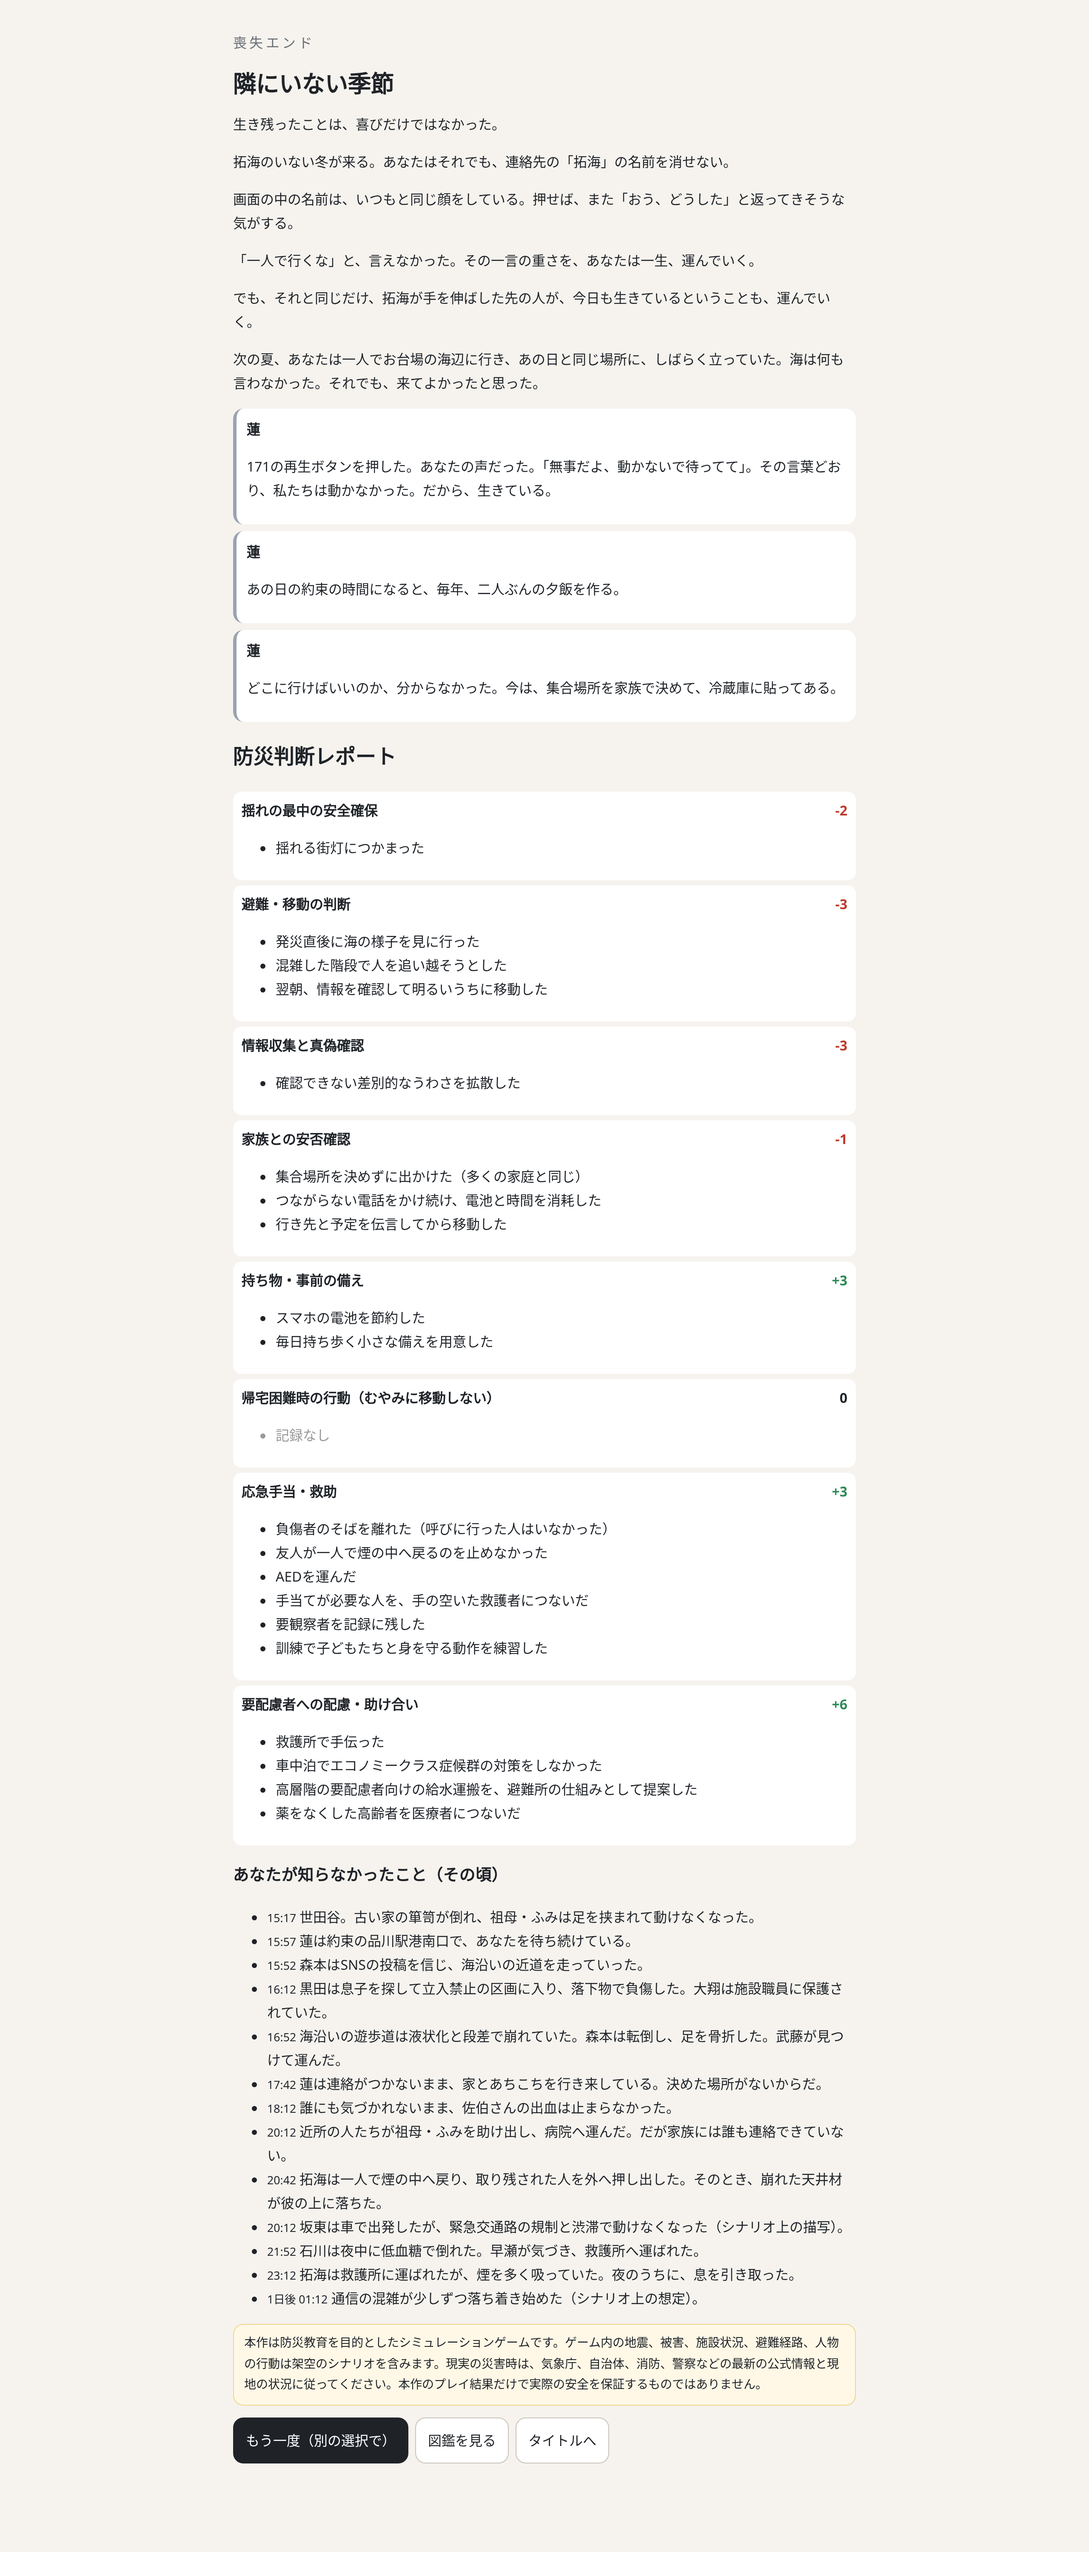
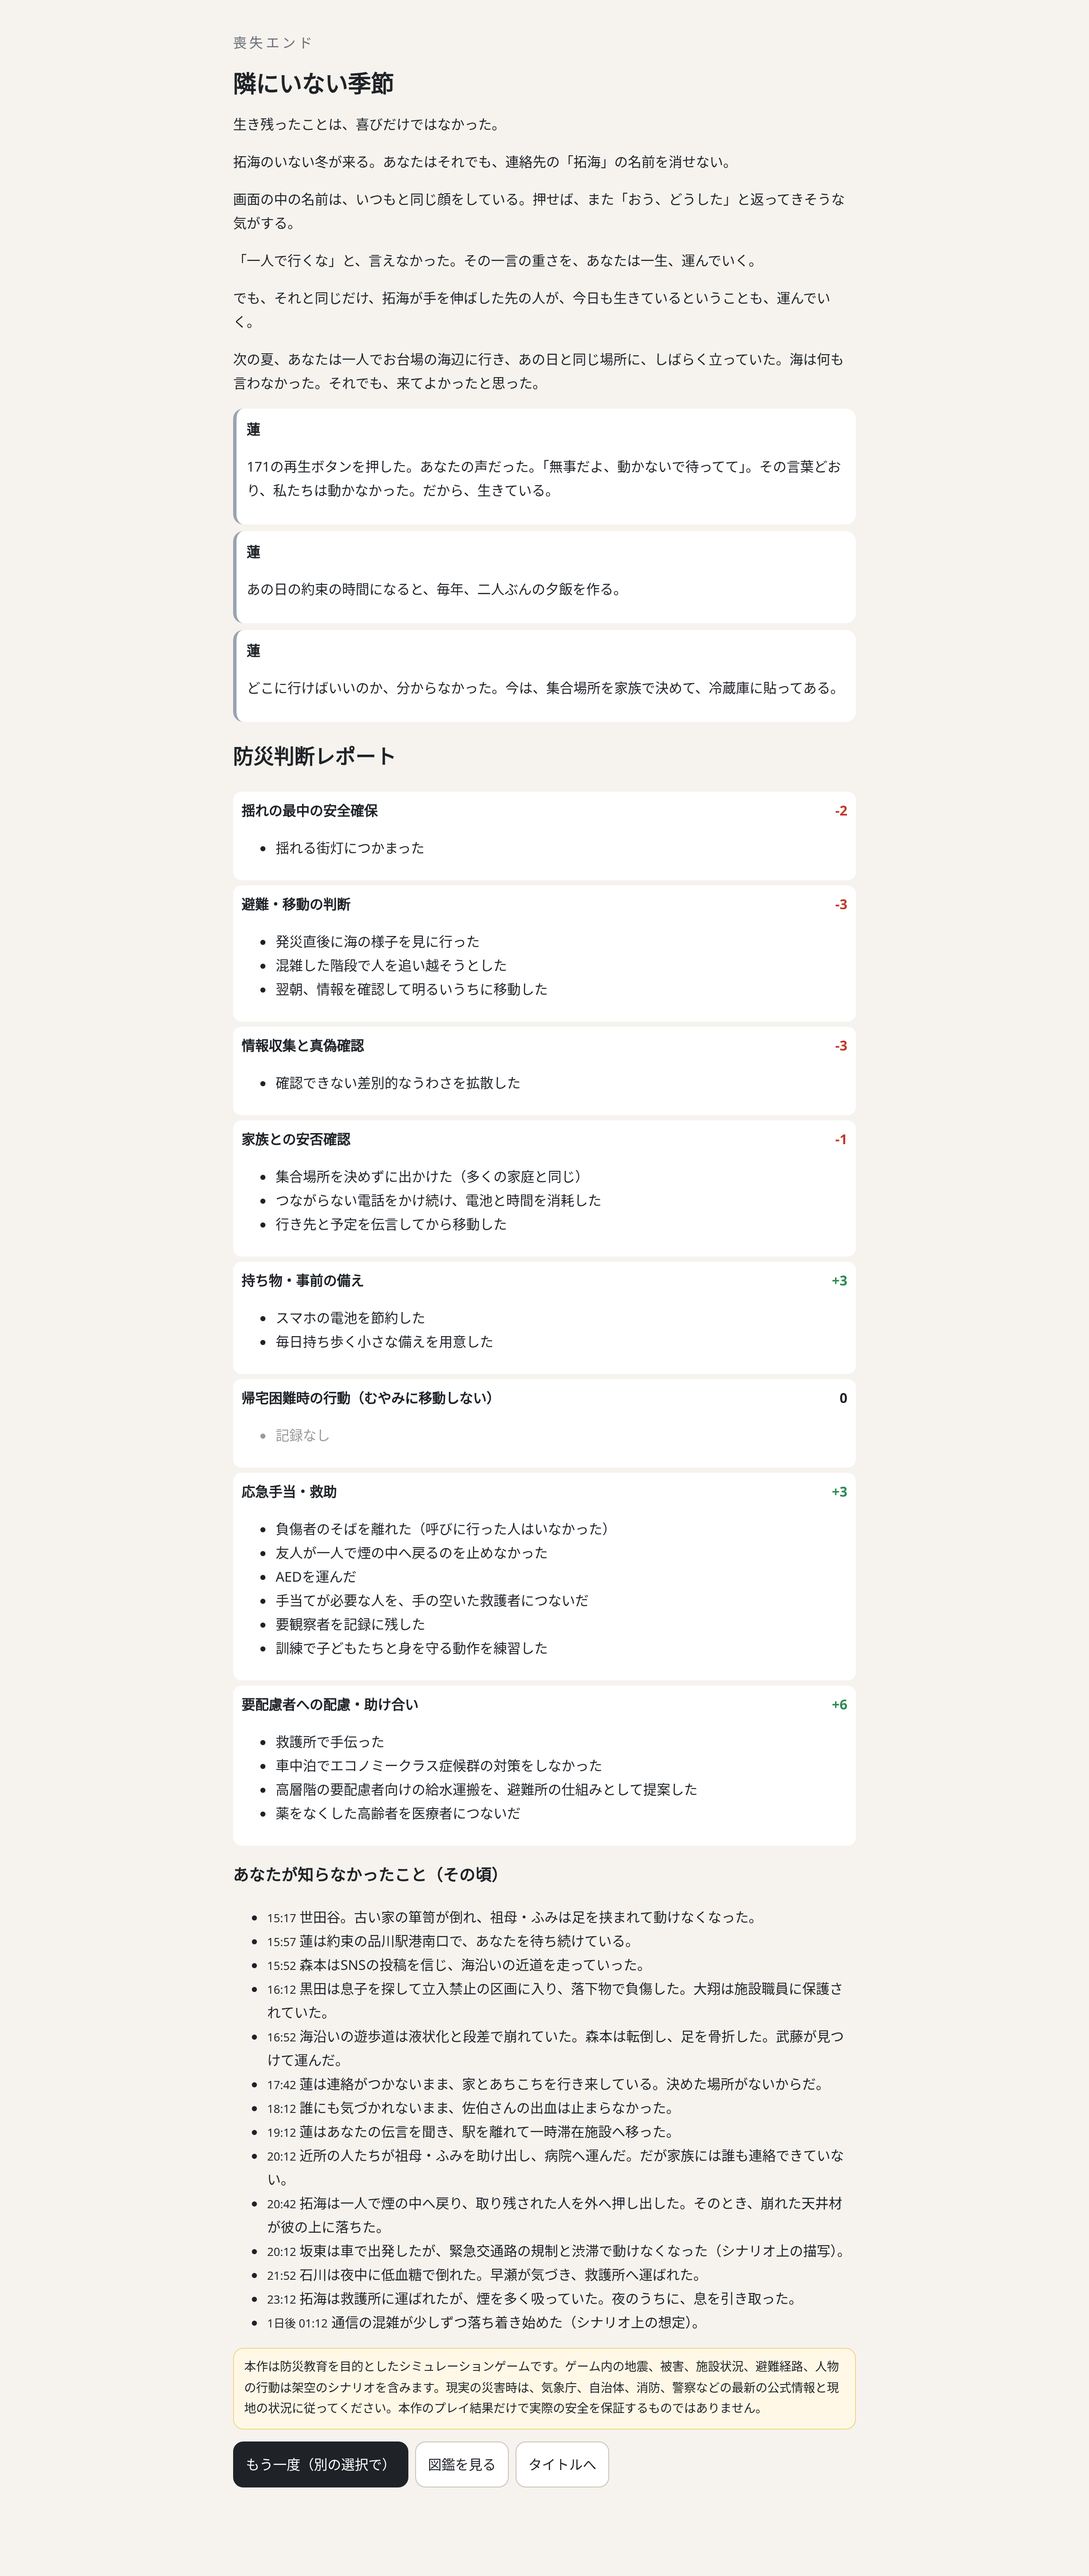
Audio: self-synthesized WebAudio BGM (4 moods, crossfade, muted by default), reunion chime, BGM toggle

diff --git a/src/main.ts b/src/main.ts
@@ -1,9 +1,9 @@
 import './style.css';
 import { DB } from './data';
-import { newGame, start, choose, proceed, scene, visibleChoices, fill, clockLabel, quakeClock, resolveEnding, afterPieces, reportSummary, type Feedback } from './engine/engine';
+import { newGame, start, choose, proceed, scene, visibleChoices, fill, clockLabel, quakeClock, isNight, resolveEnding, afterPieces, reportSummary, type Feedback } from './engine/engine';
 import type { State, PresetId } from './engine/types';
 import { save, load, clearSave, exportText, importText, prefs, setPrefs, addPlay, plays, type Prefs } from './platform/save';
-import { cue, setSound } from './platform/sound';
+import { cue, setSound, playBgm, moodFor, setBgm, MOODS, currentMood } from './platform/sound';
 import { sceneArt, artCaption } from './ui/art';
 import { bgSrc, todOf } from './ui/bg';
 import { portraitSrc } from './ui/portraits';
@@ -14,9 +14,10 @@ const app = document.getElementById('app')!;
 let S: State | null = null;
 let P: Prefs = prefs();
 let lastFb: Feedback[] = [];
+let lastChime = '';
 let tab: string | null = null;
 let lessonFor: number | null = null;
-setSound(P.volume, P.muted);
+setSound(P.volume, P.muted); setBgm(P.bgm);
 
 const esc = (t: string) => t.replace(/[&<>"]/g, c => ({ '&': '&amp;', '<': '&lt;', '>': '&gt;', '"': '&quot;' }[c]!));
 const h = (html: string) => { app.innerHTML = html; window.scrollTo(0, 0); };
@@ -100,6 +101,8 @@ function play() {
     ${tab ? `<section class="panel" id="panel">${panel(tab)}</section>` : ''}
   </main>`);
   if (sc.fx === 'quake' || sc.fx === 'aftershock') cue('rumble');
+  playBgm(moodFor(sc.chapter, isNight(s), s.t >= 0));
+  if (sc.bg === 'reunion' && lastChime !== sc.id) { lastChime = sc.id; cue('chime'); }
   on('.choice[data-c]', el => act(() => choose(s, el.dataset.c!)));
   on('#next', () => act(() => proceed(s)));
   on('[data-tab]', el => { tab = tab === el.dataset.tab ? null : el.dataset.tab!; play(); document.getElementById('panel')?.scrollIntoView({ block: 'nearest' }); });
@@ -173,6 +176,7 @@ function menu() {
 function settings(back: () => void) {
   h(`<main class="page"><h2>設定</h2>
     <label><input type="checkbox" id="mute" ${P.muted ? 'checked' : ''}/> 音をミュート</label>
+    <label><input type="checkbox" id="bgm" ${P.bgm ? 'checked' : ''}/> BGM（自作の合成音・4曲：${Object.values(MOODS).map(m => m.name).join('／')}）${currentMood() ? `<small>再生中：${MOODS[currentMood()!].name}</small>` : ''}</label>
     <label>音量 <input type="range" id="vol" min="0" max="1" step="0.1" value="${P.volume}"/></label>
     <label><input type="checkbox" id="calm" ${document.body.classList.contains('calm') ? 'checked' : ''}/> 揺れ・暗転の演出を弱める</label>
     <label><input type="checkbox" id="pt" ${P.portraits ? 'checked' : ''}/> 登場人物の立ち絵を表示（AI生成イラスト）</label>
@@ -183,7 +187,7 @@ function settings(back: () => void) {
     <p class="note">背景イラストはAI生成イラスト（架空の場所のイメージ・実在施設の写真ではありません）で、読み込めない場合は自作SVGを表示します。登場人物の立ち絵はAI生成イラスト（架空の人物・実在人物とは無関係）です。実在の災害映像・写真は使用していません。</p>
     <div class="btns"><button class="primary" id="b">戻る</button></div></main>`);
   const g = (id: string) => app.querySelector('#' + id) as HTMLInputElement;
-  const upd = () => { P = { ...P, muted: g('mute').checked, volume: Number(g('vol').value), ads: g('ads').checked, portraits: g('pt').checked }; setPrefs(P); setSound(P.volume, P.muted); document.body.classList.toggle('calm', g('calm').checked); localStorage.setItem('odaiba-afterlines.calm', g('calm').checked ? '1' : ''); };
+  const upd = () => { P = { ...P, muted: g('mute').checked, volume: Number(g('vol').value), ads: g('ads').checked, portraits: g('pt').checked, bgm: g('bgm').checked }; setBgm(P.bgm); setPrefs(P); setSound(P.volume, P.muted); document.body.classList.toggle('calm', g('calm').checked); localStorage.setItem('odaiba-afterlines.calm', g('calm').checked ? '1' : ''); };
   ['mute', 'vol', 'ads', 'calm', 'pt'].forEach(id => g(id).addEventListener('change', upd));
   on('#exp', () => { const t = exportText(); (app.querySelector('#txt') as HTMLTextAreaElement).value = t; navigator.clipboard?.writeText(t).catch(() => {}); app.querySelector('#msg')!.textContent = t ? '書き出しました（クリップボードにもコピー）' : 'セーブがありません'; });
   on('#imp', () => { const f = importText((app.querySelector('#txt') as HTMLTextAreaElement).value); app.querySelector('#msg')!.textContent = f ? '読み込みました' : '読み込めませんでした（形式が違います）'; if (f) S = f.state; });

diff --git a/src/platform/sound.ts b/src/platform/sound.ts
@@ -1,7 +1,7 @@
 // Gentle WebAudio cues only. No jump-scares: quake rumble fades in over 1.2s, low volume, and is muted by default.
 let ctx: AudioContext | null = null;
 let vol = 0.5, muted = true;
-export function setSound(v: number, m: boolean) { vol = v; muted = m; }
+export function setSound(v: number, m: boolean) { vol = v; muted = m; if (m) stopBgm(0.5); else if (cur) cur.gain.gain.value = 0.05 * v; }
 function ac() { if (!ctx) ctx = new (window.AudioContext || (window as unknown as { webkitAudioContext: typeof AudioContext }).webkitAudioContext)(); return ctx; }
 export function cue(kind: 'tap' | 'rumble' | 'chime') {
   if (muted || vol <= 0) return;
@@ -18,3 +18,46 @@ export function cue(kind: 'tap' | 'rumble' | 'chime') {
     }
   } catch { /* audio unsupported */ }
 }
+
+// ---- BGM: 自作のWebAudio合成（音源ファイルなし）。4曲・2秒クロスフェード。警報音やサイレンに似た音は使わない。
+export type Mood = 'daily' | 'unease' | 'night' | 'rebuild';
+export const MOODS: Record<Mood, { name: string; root: number; scale: number[]; step: number; wave: OscillatorType; pad: number[] }> = {
+  daily: { name: '日常', root: 60, scale: [0, 2, 4, 7, 9, 12], step: 0.5, wave: 'triangle', pad: [0, 4, 7] },
+  unease: { name: '不安', root: 57, scale: [0, 3, 5, 7, 10], step: 0.9, wave: 'sine', pad: [0, 3, 7] },
+  night: { name: '夜', root: 53, scale: [0, 3, 7, 10, 14], step: 1.2, wave: 'sine', pad: [0, 7, 15] },
+  rebuild: { name: '再建', root: 62, scale: [0, 2, 4, 7, 9, 11, 14], step: 0.6, wave: 'triangle', pad: [0, 4, 9] },
+};
+export function moodFor(chapter: number, night: boolean, quakeHappened: boolean): Mood {
+  if (chapter >= 4) return night ? 'night' : 'rebuild';
+  if (night) return 'night';
+  return quakeHappened && chapter >= 1 ? 'unease' : 'daily';
+}
+let bgmOn = true, cur: { mood: Mood; gain: GainNode; timer: number; pads: OscillatorNode[] } | null = null;
+const hz = (m: number) => 440 * Math.pow(2, (m - 69) / 12);
+export function setBgm(on: boolean) { bgmOn = on; if (!on || muted) stopBgm(); }
+export function stopBgm(fade = 1.5) {
+  if (!cur || !ctx) return; const c = cur; cur = null; const now = ctx.currentTime;
+  c.gain.gain.cancelScheduledValues(now); c.gain.gain.setValueAtTime(c.gain.gain.value, now); c.gain.gain.linearRampToValueAtTime(0, now + fade);
+  clearInterval(c.timer); setTimeout(() => c.pads.forEach(p => { try { p.stop(); } catch { /* */ } }), fade * 1000 + 100);
+}
+export function playBgm(mood: Mood) {
+  if (muted || !bgmOn || vol <= 0) { stopBgm(); return; }
+  if (cur?.mood === mood) return;
+  try {
+    const a = ac(); if (a.state === 'suspended') void a.resume();
+    stopBgm(2); const M = MOODS[mood]; const g = a.createGain(); g.connect(a.destination); const now = a.currentTime;
+    g.gain.setValueAtTime(0, now); g.gain.linearRampToValueAtTime(0.05 * vol, now + 2);
+    const lp = a.createBiquadFilter(); lp.type = 'lowpass'; lp.frequency.value = 1400; lp.connect(g);
+    const pads = M.pad.map(iv => { const o = a.createOscillator(); o.type = 'sine'; o.frequency.value = hz(M.root - 12 + iv); const pg = a.createGain(); pg.gain.value = 0.25; o.connect(pg); pg.connect(lp); o.start(); return o; });
+    let i = 0; const seq = [0, 2, 1, 3, 2, 4, 1, 0];
+    const timer = window.setInterval(() => {
+      if (!ctx) return; const t = ctx.currentTime; const n = M.scale[seq[i++ % seq.length] % M.scale.length];
+      if (i % 5 === 0) return; // 間（休符）
+      const o = ctx.createOscillator(); o.type = M.wave; o.frequency.value = hz(M.root + n); const ng = ctx.createGain();
+      ng.gain.setValueAtTime(0.0001, t); ng.gain.exponentialRampToValueAtTime(0.35, t + 0.05); ng.gain.exponentialRampToValueAtTime(0.0001, t + M.step * 1.8);
+      o.connect(ng); ng.connect(lp); o.start(t); o.stop(t + M.step * 2);
+    }, M.step * 1000);
+    cur = { mood, gain: g, timer, pads };
+  } catch { /* audio unsupported */ }
+}
+export function currentMood(): Mood | null { return cur?.mood ?? null; }

diff --git a/src/platform/save.ts b/src/platform/save.ts
@@ -4,8 +4,8 @@ const KEY = 'odaiba-afterlines.save';
 const PREF = 'odaiba-afterlines.prefs';
 const PLAYS = 'odaiba-afterlines.plays';
 export interface SaveFile { app: 'odaiba-afterlines'; v: number; savedAt: string; state: State }
-export interface Prefs { volume: number; muted: boolean; ads: boolean; textSpeed: 'normal' | 'instant'; seenDisclaimer: boolean; portraits: boolean }
-export const defaultPrefs: Prefs = { volume: 0.5, muted: true, ads: false, textSpeed: 'normal', seenDisclaimer: false, portraits: true };
+export interface Prefs { volume: number; muted: boolean; ads: boolean; textSpeed: 'normal' | 'instant'; seenDisclaimer: boolean; portraits: boolean; bgm: boolean }
+export const defaultPrefs: Prefs = { volume: 0.5, muted: true, ads: false, textSpeed: 'normal', seenDisclaimer: false, portraits: true, bgm: true };
 
 export function migrate(raw: unknown): SaveFile | null {
   if (!raw || typeof raw !== 'object') return null;

diff --git a/tests/sound.test.ts b/tests/sound.test.ts
@@ -1,0 +1,10 @@
+import { describe, it, expect } from 'vitest';
+import { moodFor, MOODS } from '../src/platform/sound';
+import { defaultPrefs } from '../src/platform/save';
+describe('bgm', () => {
+  it('4 tracks, muted by default', () => { expect(Object.keys(MOODS).length).toBe(4); expect(defaultPrefs.muted).toBe(true); });
+  it('mood by chapter/time', () => {
+    expect(moodFor(0, false, false)).toBe('daily'); expect(moodFor(1, false, true)).toBe('unease');
+    expect(moodFor(2, true, true)).toBe('night'); expect(moodFor(5, false, true)).toBe('rebuild');
+  });
+});

diff --git a/docs/RIGHTS.md b/docs/RIGHTS.md
@@ -20,3 +20,10 @@
 - 方針：人物の顔・文字・ロゴなし、津波のリアル描写・負傷/流血・ゴア表現なし。
 - 救護所（aid*）の画像は、保護標章である赤十字マークを避けるため、生成後に十字を緑色へ置換。
 - 読み込み失敗時は自作SVG（src/ui/art.ts）を表示（フォールバック）。phone_171 は phone_sns を流用。
+
+## BGM・効果音（自作合成）— src/platform/sound.ts
+- 音声ファイルは使用せず、WebAudioでその場で合成（自作）。外部素材・有料素材なし。
+- BGM 4曲：日常／不安／夜／再建（章と作中時刻で切替、2秒クロスフェード）。初期状態はミュート。設定でBGMのみOFFも可。
+- 効果音：選択タップ音、再会シーンのチャイム、揺れの低い地鳴り（1.2秒フェードイン・低音量）。
+- 緊急地震速報・サイレン等の実在の警報音に似せた音は作っていません。
+
